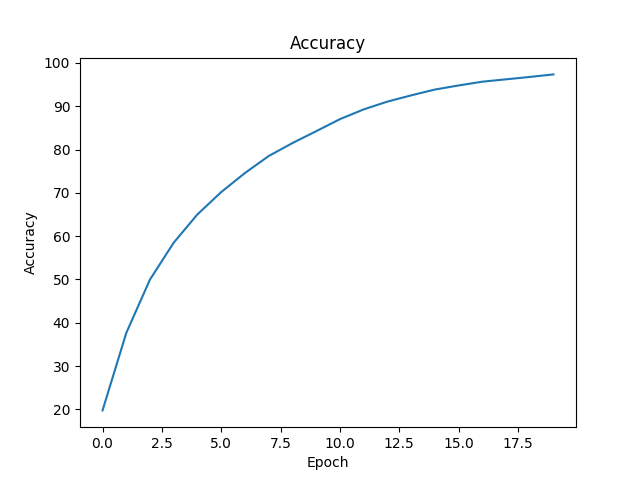
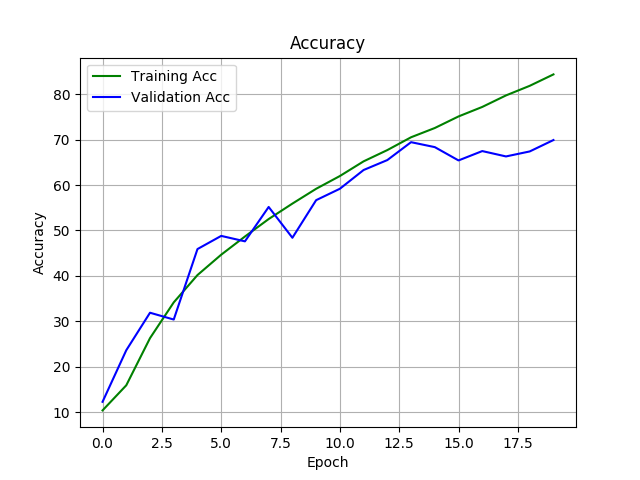
Finish

diff --git a/vgg16train.py b/vgg16train.py
@@ -1,29 +1,46 @@
 import os
 import numpy as np
 import torch
-import torchvision
 from torchvision import models
 from torchvision import transforms
 from torchvision import datasets
 import torch.nn as nn
-import torch.backends.cudnn as cudnn
+from tqdm import tqdm
 from matplotlib import pyplot as plt
 
+BATCH_SIZE = 128
+LEARNING_RATE = 0.01
+EPOCH = 20
+FILENAME = "vgg16.pth"
+WORKING_DIR = os.path.dirname(os.path.abspath(__file__))
 
 # load CIFAR10. Take reference from
 # https://clay-atlas.com/blog/2019/10/20/pytorch-chinese-tutorial-classifier-cifar-10/
 def load_data():
-    transform = transforms.Compose([transforms.ToTensor(), \
-    transforms.Normalize((0.5, 0.5, 0.5), (0.5, 0.5, 0.5))])
-    
-    trainset = datasets.CIFAR10( \
-    root='.', train=True, download=True, transform=transform)
-    
-    testset = datasets.CIFAR10( \
-    root='.', train=False, download=True, transform=transform)
+    transform = transforms.Compose(
+        [transforms.ToTensor(), transforms.Normalize((0.5, 0.5, 0.5), (0.5, 0.5, 0.5))]
+    )
 
-    classes = ('plane', 'car', 'bird', 'cat', 'deer', \
-    'dog', 'frog', 'horse', 'ship', 'truck')
+    trainset = datasets.CIFAR10(
+        root=".", train=True, download=True, transform=transform
+    )
+
+    testset = datasets.CIFAR10(
+        root=".", train=False, download=True, transform=transform
+    )
+
+    classes = (
+        "plane",
+        "car",
+        "bird",
+        "cat",
+        "deer",
+        "dog",
+        "frog",
+        "horse",
+        "ship",
+        "truck",
+    )
 
     return trainset, testset, classes
 
@@ -32,99 +49,148 @@ def load_data():
 def get_model():
     model = models.vgg16()
     # only use 10 features
-    model.classifier._modules['6'] = nn.Linear(in_features=4096, out_features=10, bias=True)
+    model.classifier._modules["6"] = nn.Linear(
+        in_features=4096, out_features=10, bias=True
+    )
     return model
 
-
-# train model
-def train(batch_size, learning_rate, epoch):
-    trainset, testset, classes = load_data()
-    device = torch.device("cuda" if torch.cuda.is_available() else "cpu")
-    model = get_model().to(device)
-    trainloader = torch.utils.data.DataLoader(
-        trainset,
-        batch_size = 32,
-        shuffle = True,
-        num_workers = 4
-    )
+def train(trainloader, model, criterion, optimizer):
+    model.train()
+    losses = 0.0
+    corrects = 0
+    total = 0
     
-    optimizer = torch.optim.SGD(model.parameters(), lr=learning_rate)
-    criterion = nn.CrossEntropyLoss()
-    acc_list = []
-    loss_list = []
-
-    for i in range(epoch):
-        print(f"\nEpoch: {i}")
-        train_loss = 0
-        correct = 0
-        total = 0
+    for inputs, targets in tqdm(trainloader):
+        inputs = inputs.cuda(non_blocking=True)
+        targets = targets.cuda(non_blocking=True)
+        outputs = model(inputs)
+        loss = criterion(outputs, targets)
         
-        # train using trainset 
-        for batch_idx, (inputs, targets) in enumerate(trainloader):
-            # Here inputs are images and targets are labels
-            inputs, targets = inputs.to(device), targets.to(device)
-            optimizer.zero_grad()
-            outputs = model(inputs)
-            loss = criterion(outputs, targets)
-            loss.backward()
-            optimizer.step()
-            
-            train_loss += loss.item()
-            _, predicted = outputs.max(1)
-            total += targets.size(0)
-            correct += predicted.eq(targets).sum().item()
-            tmp = tmp + 1
-        acc = correct * 100.0 / total
-        loss = train_loss / batch_idx
-        print(f"Loss: {loss:.2f} | Acc: {acc:.2f}%")
-        acc_list.append(acc)
-        loss_list.append(loss)
+        optimizer.zero_grad()
+        loss.backward()
+        optimizer.step()
 
-    pwd = os.path.dirname(os.path.abspath(__file__))
-    torch.save(model.state_dict(), os.path.join(pwd,'vgg16.pth'))
-    print("Save model to ./vgg16.pth")
+        losses += loss.item()
+        _, predicted = outputs.max(1)
+        corrects += predicted.eq(targets).sum().item()
+        total += targets.size(0)
+    
+    train_acc = corrects * 100.0 / total  # percentage
+    train_loss = losses / len(trainloader)
+    return train_acc, train_loss
 
-    # Save accuracy as an image
-    x = list(range(epoch))
-    plt.clf()
-    plt.plot(x, acc_list)
-    plt.title('Accuracy')
-    plt.xlabel('Epoch')
-    plt.ylabel('Accuracy')
-    plt.savefig('accuracy.png')
+def validate(validateloader, model, criterion):
+    model.eval()
+    losses = 0.0
+    corrects = 0
+    total = 0
 
-    # Save loss as an image
-    plt.clf()
-    plt.plot(x, loss_list)
-    plt.title('Loss')
-    plt.xlabel('Epoch')
-    plt.ylabel('Loss')
-    plt.savefig('loss.png')
+    for inputs, targets in tqdm(validateloader):
+        inputs = inputs.cuda(non_blocking=True)
+        targets = targets.cuda(non_blocking=True)
+        outputs = model(inputs)
+        loss = criterion(outputs, targets)
+        
+        losses += loss.item()
+        _, predicted = outputs.max(1)
+        corrects += predicted.eq(targets).sum().item()
+        total += targets.size(0)
+    
+    validate_acc = corrects * 100.0 / total  # percentage
+    validate_loss = losses / len(validateloader)
+    return validate_acc, validate_loss
 
-
-def test(index):
-    trainset, testset, classes = load_data()
+def test(index, dataset, classes):
     model = get_model()
-    state_dict = torch.load(os.path.join(os.path.dirname(os.path.abspath(__file__)),f'vgg16.pth'))
+    state_dict = torch.load(
+        os.path.join(WORKING_DIR, FILENAME)
+    )
     model.load_state_dict(state_dict)
     model.eval()
 
     # Load selected image
-    img = testset[index][0]
+    img = dataset[index][0]
     norm_img = img / 2 + 0.5
     norm_img = norm_img.numpy()
     plt.figure()
     plt.imshow(np.transpose(norm_img, (1, 2, 0)))
     plt.show()
-    
+
     # Generate predict chart
     output = model(img.unsqueeze(0))
     softmax = torch.nn.Softmax()
-    probabilities = softmax(output) 
-    
+    probabilities = softmax(output)
+
     plt.figure()
     plt.bar(np.asarray(classes), probabilities.detach().numpy()[0])
     plt.show()
 
+
+def main():
+    trainset, testset, classes = load_data()
+    trainloader = torch.utils.data.DataLoader(
+        trainset, batch_size=BATCH_SIZE, shuffle=True, num_workers=4
+    )
+    testloader = torch.utils.data.DataLoader(
+        testset, batch_size=BATCH_SIZE, shuffle=True, num_workers=4
+    )
+
+    model = get_model().cuda()
+    criterion = nn.CrossEntropyLoss()
+    optimizer = torch.optim.SGD(model.parameters(), lr=LEARNING_RATE)\
+    
+    best_acc = 0.0
+    train_accs = []
+    validate_accs = []
+    train_losses = []
+    validate_losses = []
+    
+    for epoch in range(EPOCH):
+        print(f"\nEPOCH {epoch + 1}:")
+        print("Train:")
+        tr_acc, tr_loss = train(trainloader, model, criterion, optimizer)
+        print("Validate:")
+        va_acc, va_loss = validate(testloader, model, criterion)
+        print(f"train accuarcy: {tr_acc}, train loss: {tr_loss} | "
+              f"validate accuracy: {va_acc}, validate loss: {va_loss}")
+        
+        train_accs.append(tr_acc)
+        train_losses.append(tr_loss)
+        validate_accs.append(va_acc)
+        validate_losses.append(va_loss)
+
+        if (va_acc > best_acc):
+            torch.save(
+                model.state_dict(),
+                os.path.join(WORKING_DIR, FILENAME)
+            )
+    
+    # Save accuracy as an image
+    plt.clf()
+    plt.plot(train_accs, "g", label="Training Acc")
+    plt.plot(validate_accs, "b", label="Validation Acc")
+    plt.title("Accuracy")
+    plt.xlabel("Epoch")
+    plt.ylabel("Accuracy")
+    plt.legend()
+    plt.grid()
+    plt.savefig("accuracy.png")
+
+    # Save loss as an image
+    plt.clf()
+    plt.plot(train_losses, "g", label="Training Loss")
+    plt.plot(validate_losses, "b", label="Validation Loss")
+    plt.title("Loss")
+    plt.xlabel("Epoch")
+    plt.ylabel("Loss")
+    plt.legend()
+    plt.grid()
+    plt.savefig("loss.png")
+
+
 if __name__ == "__main__":
-    train(32, 0.01, 20)
+    if not torch.cuda.is_available():
+        print("Cuda not available, abort.")
+    else:
+        main()
+

diff --git a/main.py b/main.py
@@ -1,4 +1,5 @@
 import sys
+import cv2
 from PyQt5.QtWidgets import (
     QApplication,
     QWidget,
@@ -11,14 +12,13 @@ import torch
 import torchvision
 import numpy as np
 from matplotlib import pyplot as plt
-from matplotlib import image
+
 
 class MainWindow(QWidget):
     def __init__(self):
         super(MainWindow, self).__init__()
-        # self.setGeometry(200, 200, 640, 400)
         self.setWindowTitle("cifar10-vgg16")
-        
+
         button = [None] * 5
         button[0] = QPushButton("1 show random labeled images", self)
         button[0].clicked.connect(self.show_random_labeled_images)
@@ -28,36 +28,39 @@ class MainWindow(QWidget):
         button[2].clicked.connect(self.show_training_accuracy)
         button[3] = QPushButton("4 show test", self)
         button[3].clicked.connect(self.show_test)
-        self.index_text = QLineEdit("0")
+        self.index_txt = QLineEdit("0")
 
         vbox = QVBoxLayout()
         vbox.addWidget(button[0])
         vbox.addWidget(button[1])
         vbox.addWidget(button[2])
-        vbox.addWidget(self.index_text)
+        vbox.addWidget(self.index_txt)
         vbox.addWidget(button[3])
         vbox.addStretch(1)
         self.setLayout(vbox)
-
+        
+        print("Loading data...")
+        self.trainset, self.testset, self.classes = vgg16train.load_data()
+    
     # Show images. Take reference from
     # https://pytorch.org/tutorials/beginner/blitz/cifar10_tutorial.html?highlight=cifar
     def show_random_labeled_images(self):
-        trainset, testset, classes = vgg16train.load_data()
-        trainloader = torch.utils.data.DataLoader( \
-            trainset, batch_size=9, shuffle=True, num_workers=2)
-        
+        trainloader = torch.utils.data.DataLoader(
+            self.trainset, batch_size=9, shuffle=True, num_workers=2
+        )
+
         # get some random training images
         dataiter = iter(trainloader)
         images, labels = dataiter.next()
         images = torchvision.utils.make_grid(images, nrow=3)
-        images = images / 2 + 0.5     # unnormalize
+        images = images / 2 + 0.5  # unnormalize
         npimg = images.numpy()
 
         # generate label
         s = ""
         i = 1
         for l in labels:
-            s += str(i) + "." + str(classes[l]) + " "
+            s += str(i) + "." + str(self.classes[l]) + " "
             i += 1
         plt.imshow(np.transpose(npimg, (1, 2, 0)))
         plt.title(s)
@@ -67,19 +70,15 @@ class MainWindow(QWidget):
         print(vgg16train.get_model())
 
     def show_training_accuracy(self):
-        # vgg16train.train(
-        #     self.batch_size,
-        #     self.learning_rate,
-        #     20
-        # )
-        accimg = image.imread("accuracy.png")
-        lossimg = image.imread("loss.png")
-        plt.imshow(accimg)
-        plt.imshow(lossimg)
-    
+        accimg = cv2.imread("accuracy.png")
+        lossimg = cv2.imread("loss.png")
+        cv2.imshow("Accuracy", accimg)
+        cv2.imshow("Loss", lossimg)
+
     def show_test(self):
         id = int(self.index_txt.text())
-        vgg16train.test(id)
+        vgg16train.test(id, self.testset, self.classes)
+
 
 def main():
     app = QApplication(sys.argv)
